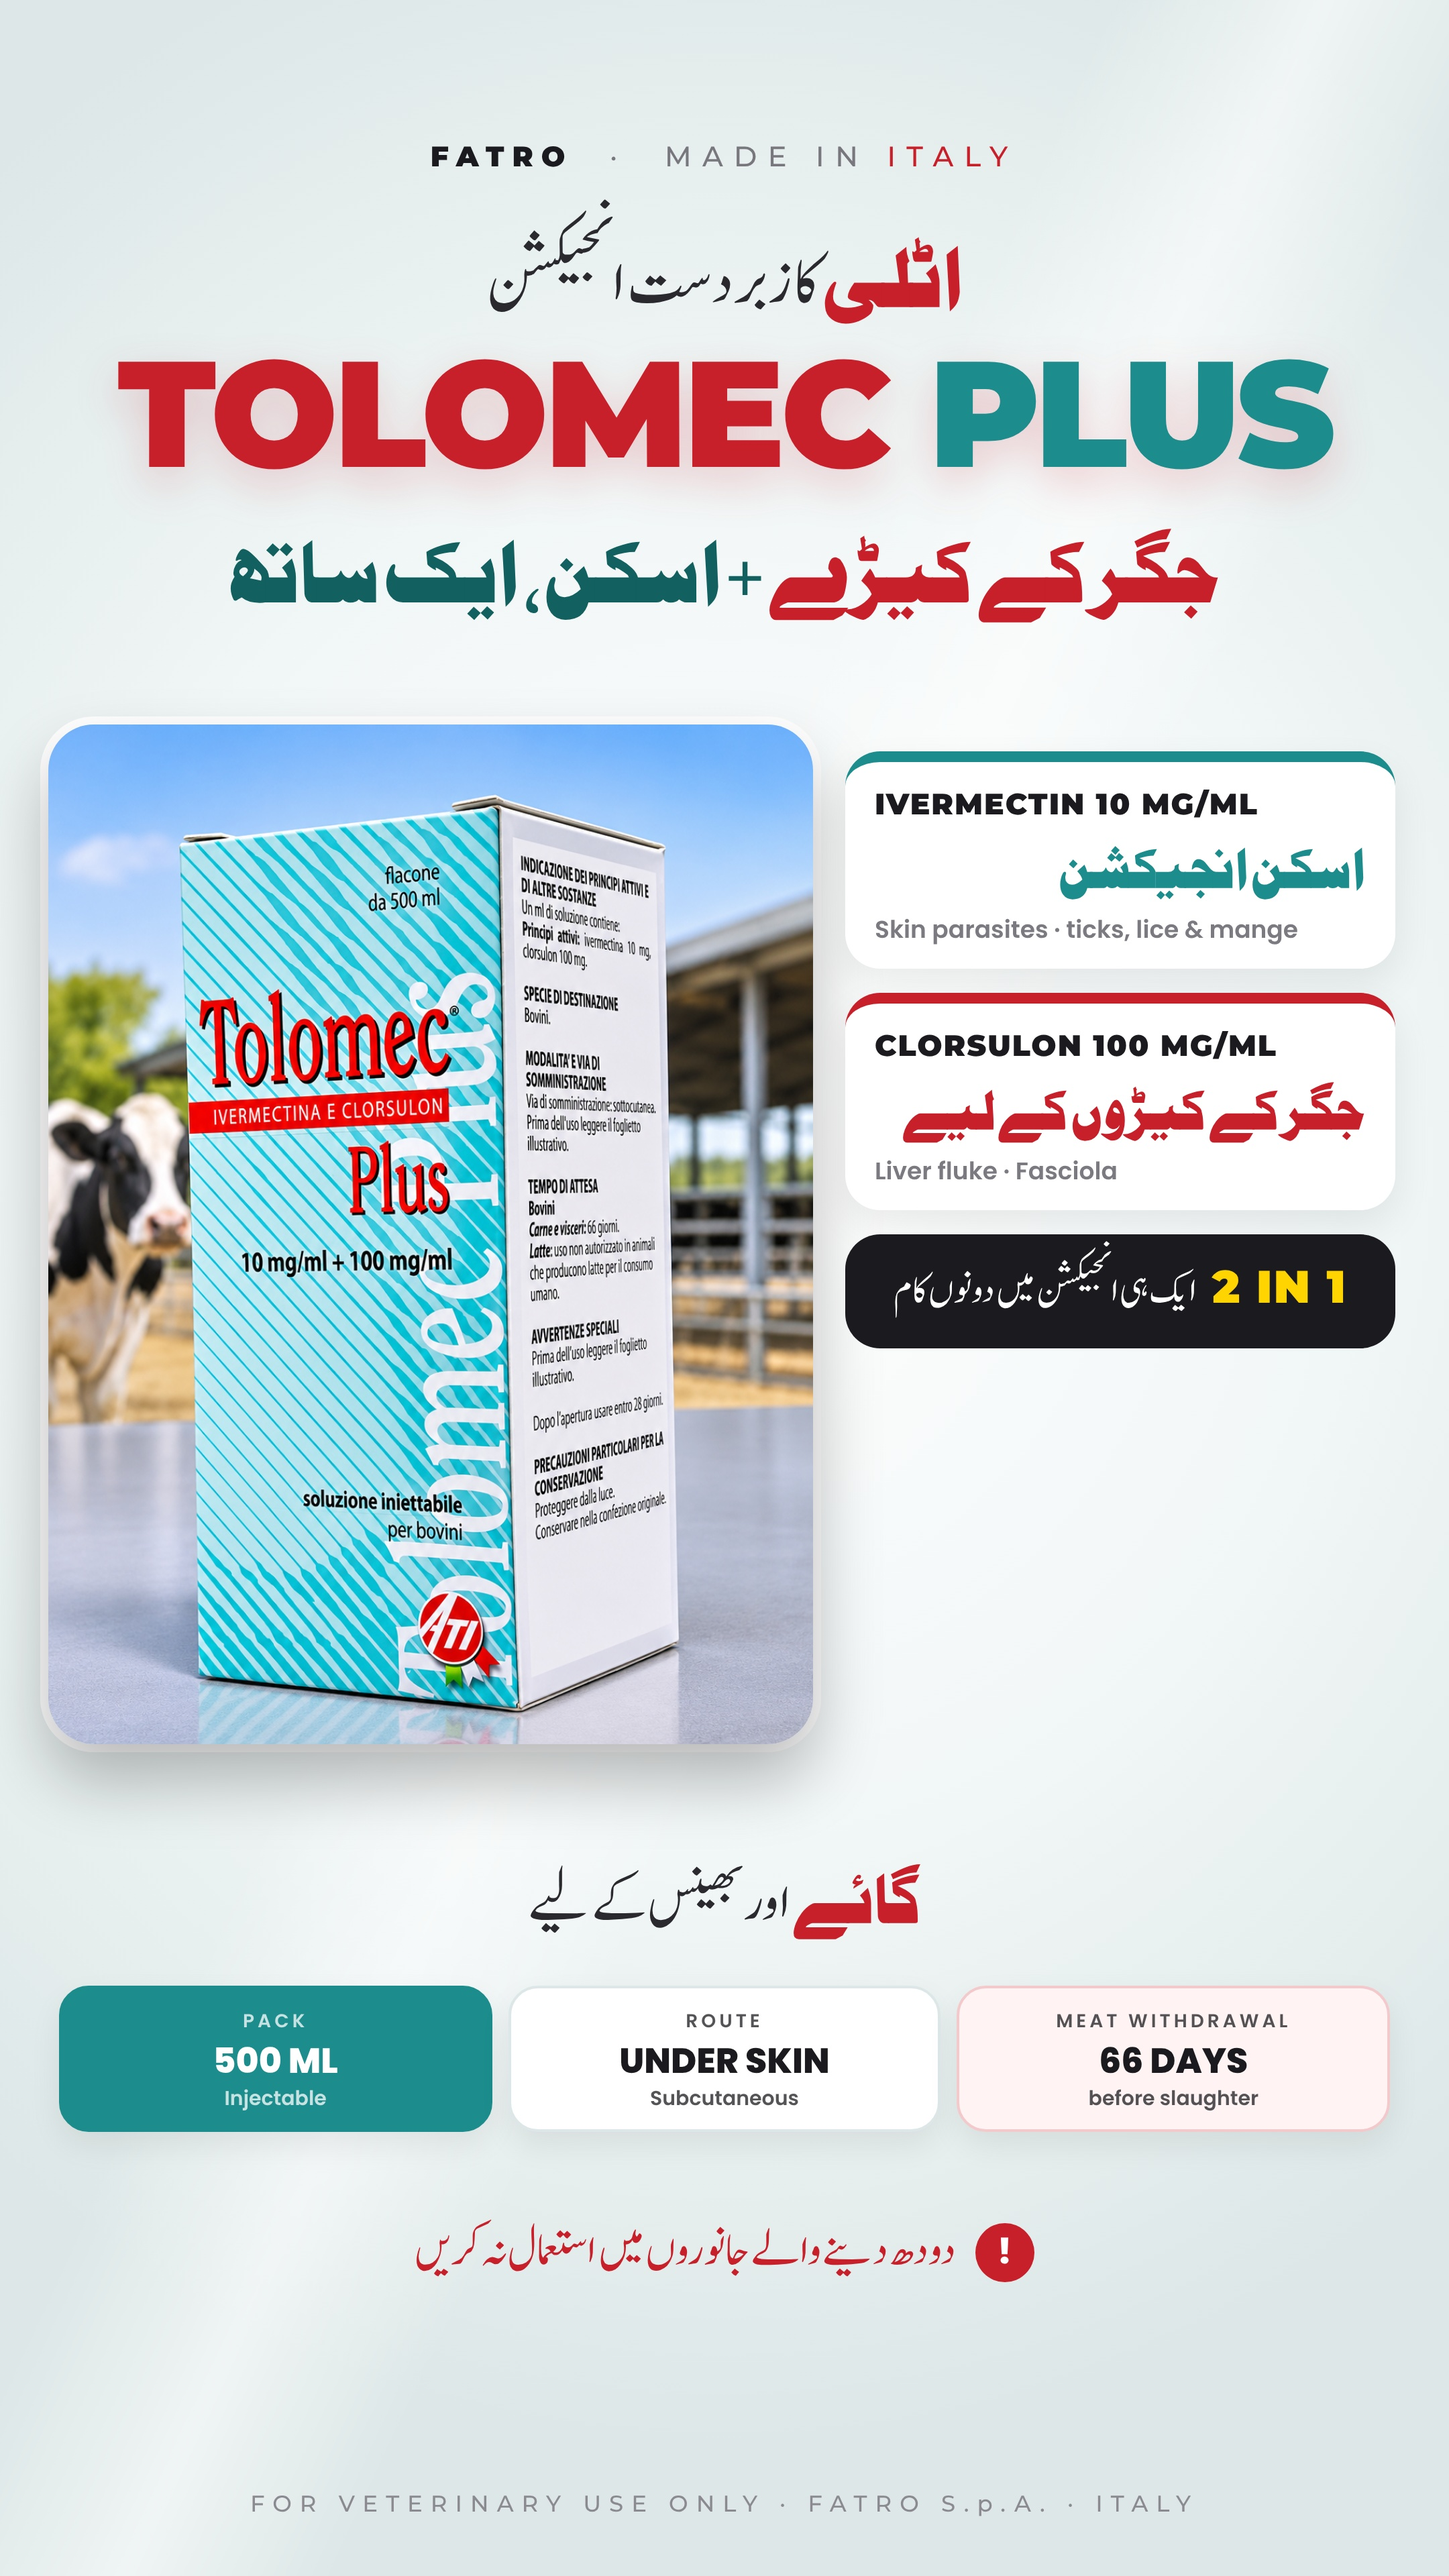
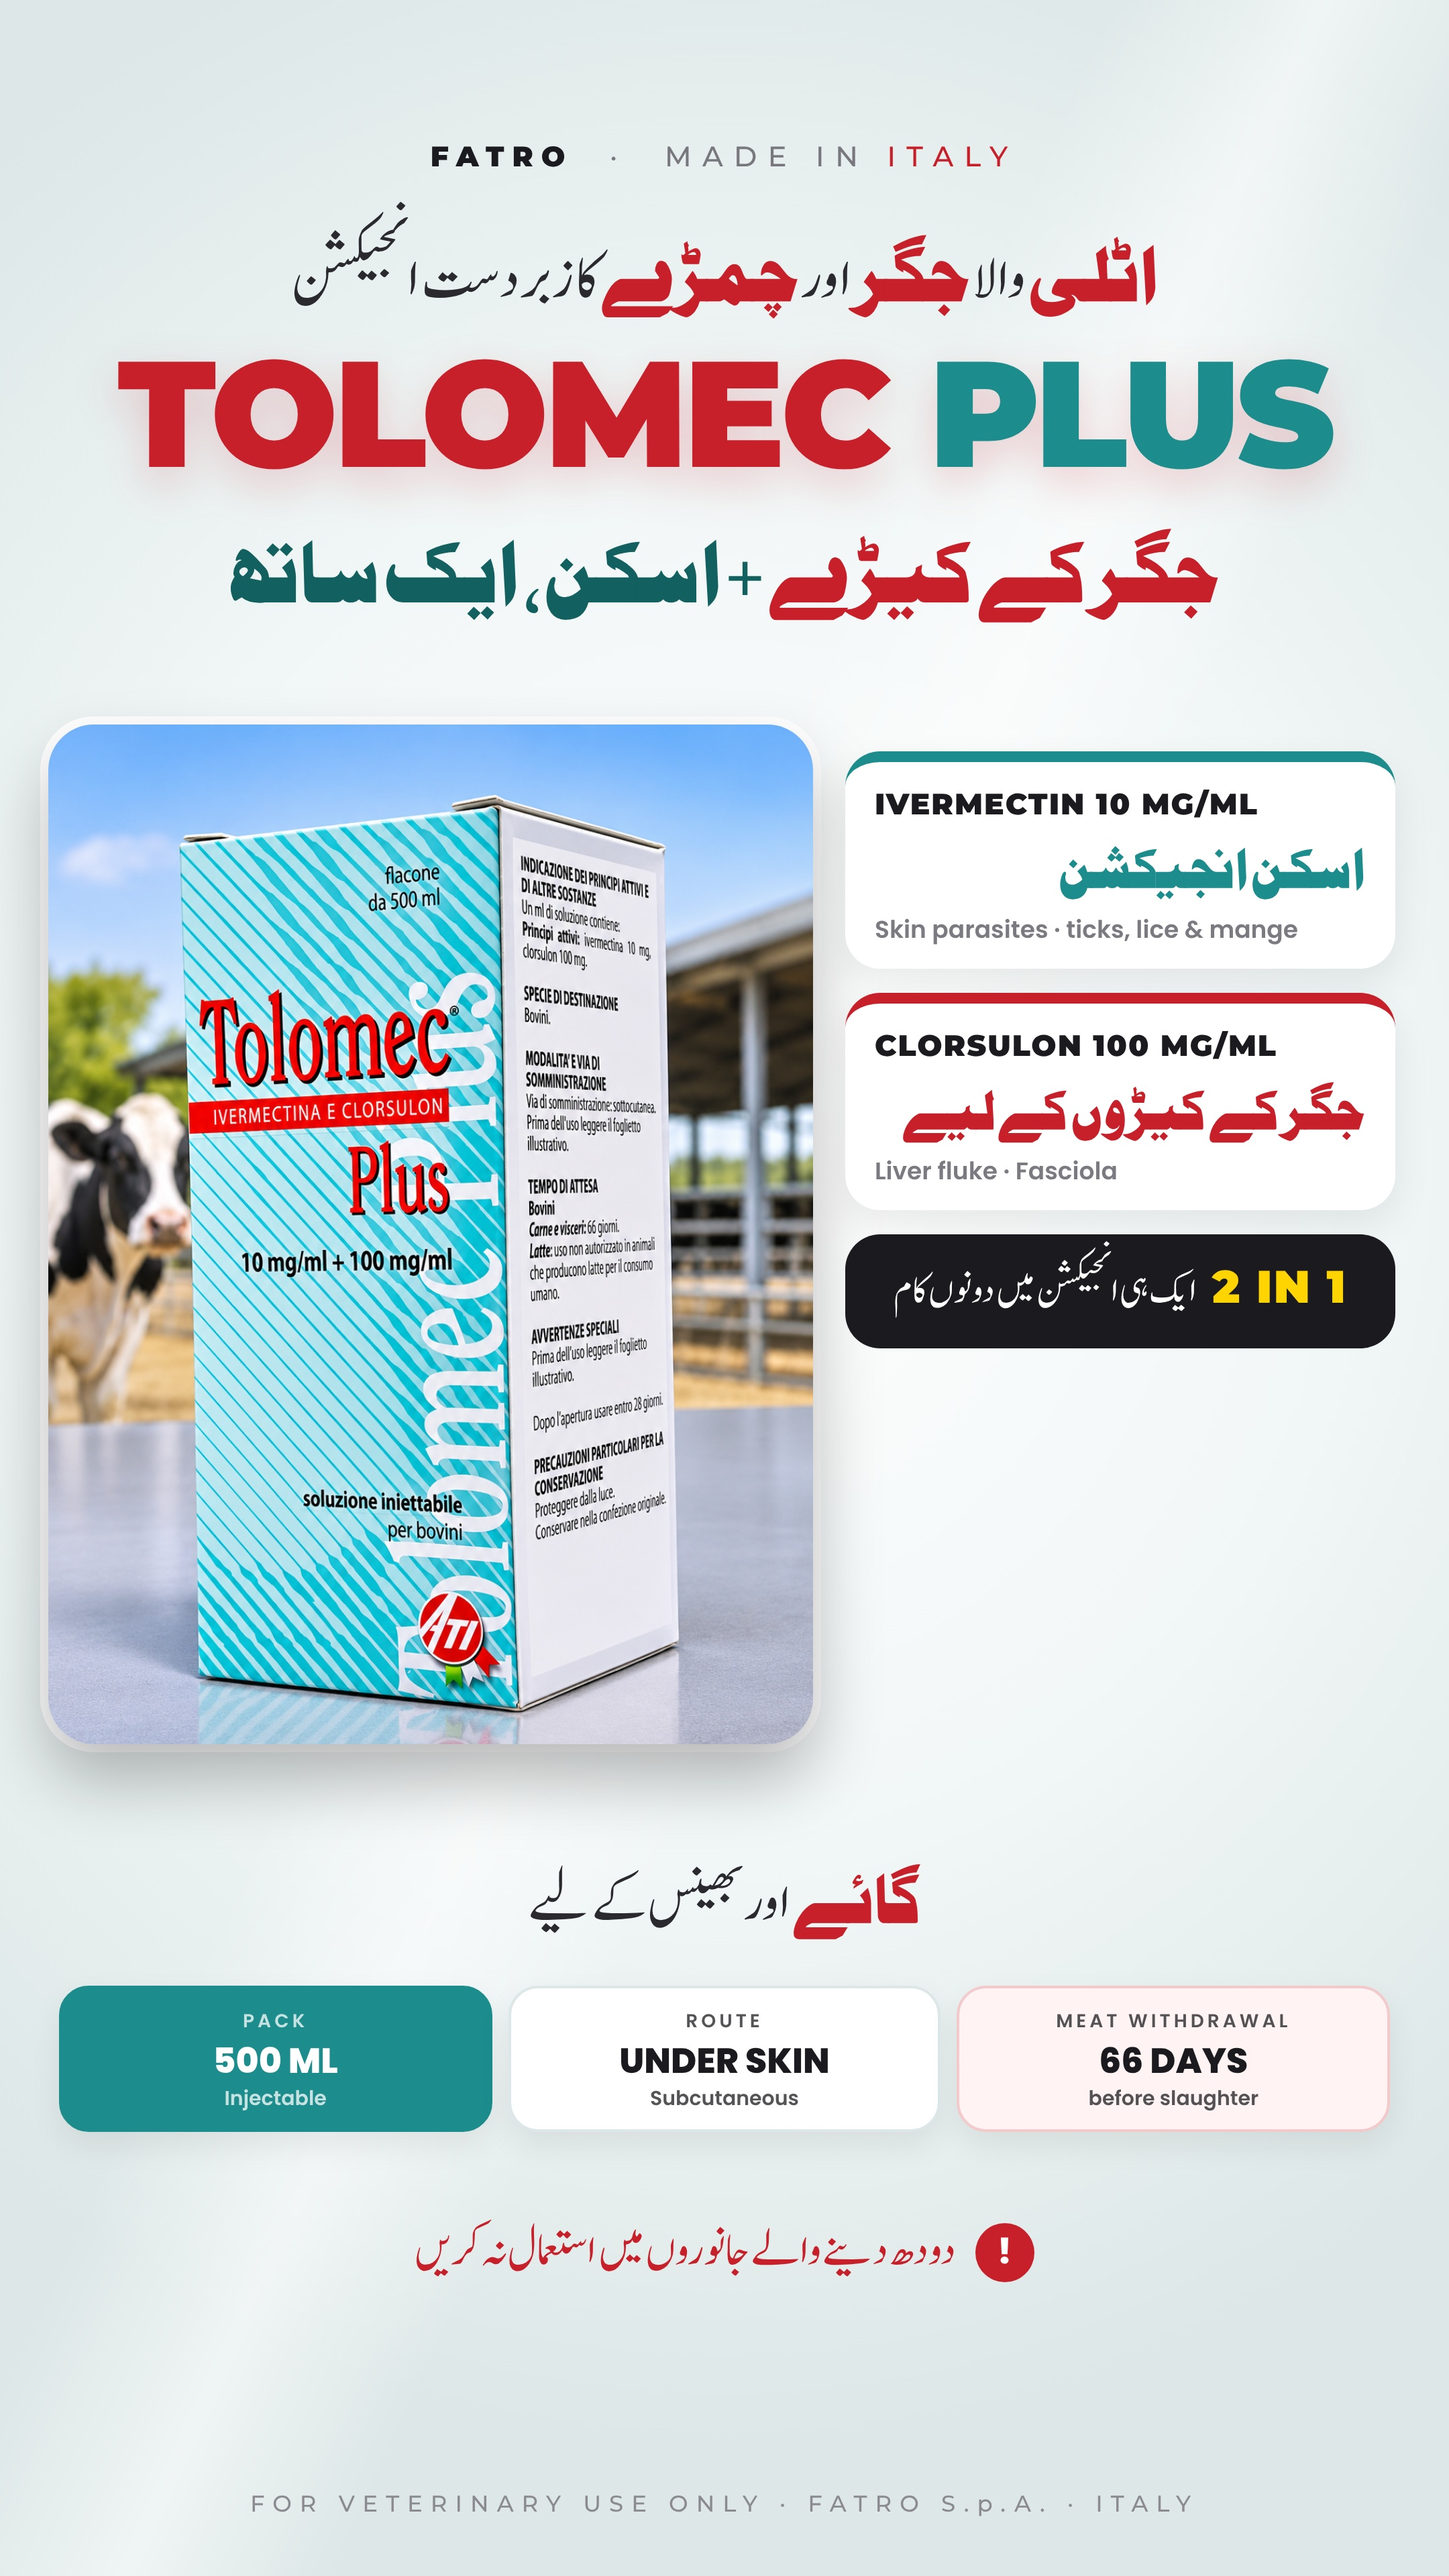
Tolomec post: 'اٹلی والا جگر اور چمڑے کا زبردست انجیکشن' line
Claude-Session: https://claude.ai/code/session_0139To4Bi5mkGo2BmfVPNRP3

Changed region(s): [[0.2792, 0.0938, 0.8065, 0.125], [0.2171, 0.0938, 0.2481, 0.125]]

diff --git a/tools/posts/tolomec_post.py b/tools/posts/tolomec_post.py
@@ -32,7 +32,7 @@ css=f"""*{{margin:0;padding:0;box-sizing:border-box}}
 #p{{position:absolute;inset:0;overflow:hidden;font-family:Poppins;color:{INK};background:radial-gradient(ellipse 80% 50% at 50% 45%,#FFFFFF 0%,#F1F6F6 55%,#DDE7E7 100%)}}
 .sheen{{position:absolute;inset:0;background:linear-gradient(115deg,transparent 42%,rgba(255,255,255,.55) 50%,transparent 58%)}}
 .top{{position:absolute;top:104px;left:0;right:0;text-align:center;font:500 21px Montserrat;letter-spacing:8px;color:#77777d}} .top b{{font-weight:900;color:{INK};letter-spacing:6px}} .top i{{font-style:normal;color:{RED}}}
-.l1{{position:absolute;top:158px;left:0;right:0;text-align:center;direction:rtl;font:54px/1.6 Noori;color:#2a2a2e}} .l1 span{{font-family:Aslam;color:{RED};font-size:1.12em}}
+.l1{{position:absolute;top:158px;left:30px;right:30px;text-align:center;direction:rtl;font:50px/1.6 Noori;white-space:nowrap;color:#2a2a2e}} .l1 span{{font-family:Aslam;color:{RED};font-size:1.12em}}
 .hero{{position:absolute;top:252px;left:0;right:0;text-align:center;font:900 112px/1 Montserrat;letter-spacing:-3px;color:{RED};filter:drop-shadow(0 12px 16px rgba(200,32,43,.2))}}
 .hero i{{font-style:normal;color:{T}}}
 .sub{{position:absolute;top:382px;left:0;right:0;text-align:center;direction:rtl;font:62px/1.4 Aslam;color:{TD}}}
@@ -60,7 +60,7 @@ css=f"""*{{margin:0;padding:0;box-sizing:border-box}}
 cs="".join(f'<div class="c"><div class="e">{e}</div><div class="u">{u}</div><div class="s">{s}</div></div>' for e,u,s in cards)
 html=f"""<div id="p"><div class="sheen"></div>
 <div class="top"><b>FATRO</b> &nbsp;·&nbsp; MADE IN <i>ITALY</i></div>
-<div class="l1"><span>اٹلی</span> کا زبردست انجیکشن</div>
+<div class="l1"><span>اٹلی</span> والا <span>جگر</span> اور <span>چمڑے</span> کا زبردست انجیکشن</div>
 <div class="hero">TOLOMEC <i>PLUS</i></div>
 <div class="sub"><b>جگر کے کیڑے</b> + اسکن، ایک ساتھ</div>
 <div class="ph"><img src="file://{hero}"></div>
